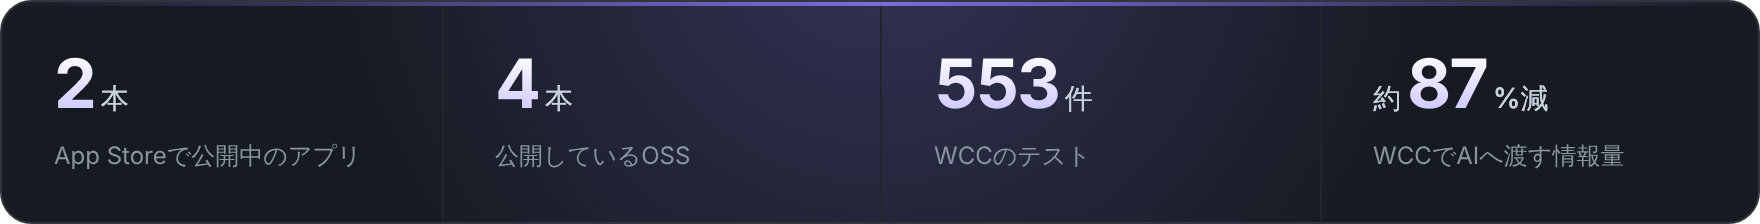
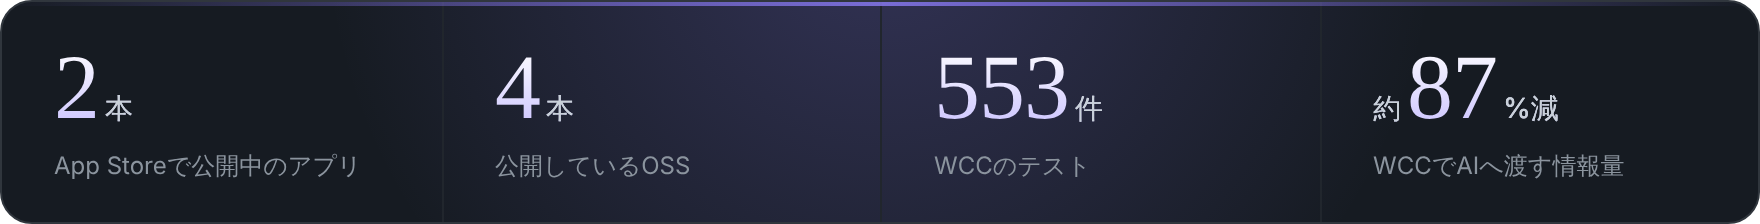
Editorial redesign: numbered section headers, principles and timeline panels, daily activity grid
- Section headers with a numbered italic serif title and thin rule, in light and dark
- Principles and timeline as designed panels instead of plain lists
- Activity grid drawn in the profile palette from the contribution calendar, rebuilt every morning
  (placeholder until the first run after merge; the workflow now also runs on push to main)
- Serif numbers on the stats strip

Claude-Session: https://claude.ai/code/session_01LtLMmqaeWnwXusiQJe4ZCB

diff --git a/tools/build_panels.js b/tools/build_panels.js
@@ -1,0 +1,114 @@
+// 段の見出し（assets/sections/*-<明暗>.png）と、「大事にしていること」「歩み」の板
+// （assets/panels/*-<明暗>.png）を作る。雑誌のように、番号・欧文の斜体・細い罫線で全体をそろえる。
+// 使い方: node tools/build_panels.js <書体フォルダ> assets
+const fs = require('fs');
+const path = require('path');
+const { chromium } = require('playwright');
+
+const FONT_DIR = path.resolve(process.argv[2] || 'fonts');
+const OUT = path.resolve(process.argv[3] || path.join(__dirname, '..', 'assets'));
+
+const THEMES = {
+  dark: { bg: '#161B22', border: '#30363D', fg: '#E6EDF3', body: '#C9D1D9', sub: '#8B949E', rule: '#30363D', accent: '#B4A7FF', dot: '#8B7CF6', soft: '#8B7CF61f' },
+  light: { bg: '#FFFFFF', border: '#E4E1F0', fg: '#1C1A2B', body: '#3B3852', sub: '#6E6A86', rule: '#E4E1F0', accent: '#6D5BD0', dot: '#6D5BD0', soft: '#6D5BD014' },
+};
+
+// 段の見出し。番号は読む順番。
+const SECTIONS = [
+  { id: 'numbers', no: '01', en: 'Numbers', ja: '数字で見る', meta: '2026.11' },
+  { id: 'apps', no: '02', en: 'Apps', ja: 'App Storeで公開中', meta: 'iOS · 2' },
+  { id: 'oss', no: '03', en: 'Open source', ja: '公開しているOSS', meta: 'GitHub · 4' },
+  { id: 'principles', no: '04', en: 'Principles', ja: '大事にしていること', meta: '' },
+  { id: 'timeline', no: '05', en: 'Timeline', ja: '歩み', meta: '2025 — 2026' },
+  { id: 'activity', no: '06', en: 'Activity', ja: '毎日の積み重ね', meta: 'daily' },
+  { id: 'stack', no: '07', en: 'Stack', ja: '使っている技術', meta: '' },
+];
+
+// 文言は README と同じ。提出済みESの範囲から出さない。
+const PRINCIPLES = [
+  { en: 'Ship it', ja: '作って、届ける。', body: '企画から公開まで運びきる。Stellise は2名のチームで約4か月かけて App Store に出しました。' },
+  { en: 'Measure the goal', ja: '動いたあとに、目的を測る。', body: 'テストが通っても終わりにしない。WCC では553件のテストが通ったあとに、AIへ渡す情報量が膨らんでいるのを見つけ、約87%減らしました。' },
+  { en: 'Guard by design', ja: 'AIに任せる範囲は、仕組みで守る。', body: '購入や送信は実行前に止める（WCC）。交渉の最後は人が承認する（AUN Protocol）。' },
+];
+
+const TIMELINE = [
+  { date: '2025.10', text: 'Tongali アイデアピッチコンテスト 準優秀賞' },
+  { date: '2026.05', text: 'G検定・Google AI Professional Certificate' },
+  { date: '2026.07', text: 'KASANE を npm で公開' },
+  { date: '2026.09', text: '技育博2026 に Stellise を出展・Voice Context を App Store で公開' },
+  { date: '2026.10', text: 'AUN Protocol を仕様として公開・WCC の比較計測（27回）を公開' },
+];
+
+function fontCss() {
+  return fs.readdirSync(FONT_DIR).filter((f) => f.endsWith('.css'))
+    .map((f) => fs.readFileSync(path.join(FONT_DIR, f), 'utf8')).join('\n');
+}
+
+const page = (t, body, css) => `<!doctype html><html lang="ja"><head><meta charset="utf-8"><style>${fontCss()}
+  * { box-sizing: border-box; margin: 0; padding: 0; } html, body { background: transparent; }
+  body { font-family: 'Inter', 'Noto Sans JP', sans-serif; color: ${t.fg}; -webkit-font-smoothing: antialiased; }
+  .serif { font-family: 'Instrument Serif', 'Noto Serif JP', serif; font-style: italic; font-weight: 400; }
+  .wrap { word-break: auto-phrase; text-wrap: pretty; }
+  ${css}</style></head><body>${body}</body></html>`;
+
+function sectionHtml(s, t) {
+  return page(t, `<div id="c" class="sec">
+    <span class="no serif">(${s.no})</span><span class="en serif">${s.en}</span><span class="ja">${s.ja}</span>
+    <span class="meta">${s.meta}</span>
+  </div>`, `
+  .sec { width: 880px; height: 62px; display: flex; align-items: baseline; gap: 12px; padding: 18px 4px 0; border-bottom: 1px solid ${t.rule}; position: relative; }
+  .sec::after { content: ''; position: absolute; left: 0; bottom: -1px; width: 120px; height: 1px; background: ${t.accent}; }
+  .no { font-size: 17px; color: ${t.accent}; }
+  .en { font-size: 32px; line-height: 1; color: ${t.fg}; letter-spacing: -.3px; }
+  .ja { font: 500 13px 'Inter', 'Noto Sans JP'; color: ${t.sub}; margin-left: 2px; }
+  .meta { margin-left: auto; font: 400 11px 'JetBrains Mono', monospace; color: ${t.sub}; letter-spacing: .6px; }
+  `);
+}
+
+function principlesHtml(t) {
+  return page(t, `<div id="c" class="box">${PRINCIPLES.map((p, i) => `
+    <div class="col"><div class="num serif">${['i.', 'ii.', 'iii.'][i]}</div><div class="en serif">${p.en}</div>
+    <h3>${p.ja}</h3><p class="wrap">${p.body}</p></div>`).join('')}</div>`, `
+  .box { width: 880px; display: grid; grid-template-columns: repeat(3, 1fr); background: ${t.bg}; border: 1px solid ${t.border}; border-radius: 18px; overflow: hidden; }
+  .col { padding: 24px 24px 26px; position: relative; }
+  .col + .col { border-left: 1px solid ${t.rule}; }
+  .num { font-size: 15px; color: ${t.accent}; }
+  .en { font-size: 26px; line-height: 1.1; margin-top: 2px; color: ${t.fg}; }
+  h3 { margin-top: 14px; font: 700 15px/1.5 'Inter', 'Noto Sans JP'; color: ${t.fg}; }
+  p { margin-top: 8px; font: 400 12.5px/1.75 'Inter', 'Noto Sans JP'; color: ${t.body}; }
+  `);
+}
+
+function timelineHtml(t) {
+  return page(t, `<div id="c" class="box"><div class="line"></div>${TIMELINE.map((e, i) => `
+    <div class="ev${i === TIMELINE.length - 1 ? ' now' : ''}"><div class="date">${e.date}</div><div class="dot"></div><p class="wrap">${e.text}</p></div>`).join('')}</div>`, `
+  .box { width: 880px; display: grid; grid-template-columns: repeat(${TIMELINE.length}, 1fr); background: ${t.bg}; border: 1px solid ${t.border}; border-radius: 18px; padding: 26px 18px 26px; position: relative; overflow: hidden; }
+  .line { position: absolute; left: 40px; right: 40px; top: 63px; height: 1px; background: linear-gradient(90deg, ${t.rule}, ${t.accent}, ${t.rule}); }
+  .ev { padding: 0 10px; position: relative; }
+  .date { font: 500 12px 'JetBrains Mono', monospace; color: ${t.sub}; letter-spacing: .5px; }
+  .dot { width: 11px; height: 11px; border-radius: 50%; background: ${t.bg}; border: 2px solid ${t.dot}; margin: 12px 0 14px; position: relative; z-index: 1; }
+  .now .dot { background: ${t.dot}; box-shadow: 0 0 0 5px ${t.soft}; }
+  .now .date { color: ${t.accent}; }
+  p { font: 500 12.5px/1.7 'Inter', 'Noto Sans JP'; color: ${t.body}; }
+  `);
+}
+
+async function shot(p, html, out) {
+  await p.setContent(html, { waitUntil: 'load' });
+  await p.evaluate(() => document.fonts.ready);
+  await (await p.$('#c')).screenshot({ path: out, omitBackground: true });
+  console.log('wrote', out);
+}
+
+(async () => {
+  fs.mkdirSync(path.join(OUT, 'sections'), { recursive: true });
+  fs.mkdirSync(path.join(OUT, 'panels'), { recursive: true });
+  const b = await chromium.launch();
+  const p = await b.newPage({ viewport: { width: 940, height: 600 }, deviceScaleFactor: 2 });
+  for (const [name, t] of Object.entries(THEMES)) {
+    for (const s of SECTIONS) await shot(p, sectionHtml(s, t), path.join(OUT, 'sections', `${s.id}-${name}.png`));
+    await shot(p, principlesHtml(t), path.join(OUT, 'panels', `principles-${name}.png`));
+    await shot(p, timelineHtml(t), path.join(OUT, 'panels', `timeline-${name}.png`));
+  }
+  await b.close();
+})();

diff --git a/tools/build_cards.js b/tools/build_cards.js
@@ -120,10 +120,10 @@ function statsHtml(t) {
   .strip::after { content: ''; position: absolute; inset: 0 0 auto 0; height: 1.5px; background: linear-gradient(90deg, transparent, #8B7CF6${t.line}, transparent); }
   .cell { display: flex; flex-direction: column; justify-content: center; padding: 0 26px; }
   .cell + .cell { border-left: 1px solid ${t.divider}; }
-  .num { font: 700 34px/1 'Inter'; letter-spacing: -1px; background: ${grad}; -webkit-background-clip: text; color: transparent; }
+  .num { font: 400 46px/1 'Instrument Serif', serif; letter-spacing: -.5px; background: ${grad}; -webkit-background-clip: text; color: transparent; padding-right: 2px; }
   .num small, .num .pre { font: 500 14px 'Inter', 'Noto Sans JP'; letter-spacing: 0; color: ${t.body}; -webkit-text-fill-color: ${t.body}; }
   .num small { margin-left: 3px; } .num .pre { margin-right: 3px; }
-  .label { margin-top: 10px; font: 400 12px 'Inter', 'Noto Sans JP'; color: ${t.sub}; }
+  .label { margin-top: 8px; font: 400 12px 'Inter', 'Noto Sans JP'; color: ${t.sub}; }
   </style></head><body><div class="strip" id="c">
   ${STATS.map((x) => `<div class="cell"><div class="num">${x.pre ? `<span class="pre">${x.pre}</span>` : ''}${x.num}<small>${x.unit}</small></div><div class="label">${x.label}</div></div>`).join('')}
   </div></body></html>`;

diff --git a/tools/build_activity.py b/tools/build_activity.py
@@ -1,0 +1,151 @@
+"""毎日の積み重ね assets/activity-dark.svg・assets/activity-light.svg を作る。
+
+GitHub の草（この1年の日ごとの活動数）を読み、プロフィールと同じ色で描く。
+GitHub Actions（.github/workflows/recent.yml）が毎朝動かす。取得に失敗したときは何も書き換えない。
+手元で試すときは --placeholder（集計前の空の表）か --sample（形を見るための作り物の数字）を付ける。
+--sample の画像はコミットしないこと。
+"""
+import datetime as dt
+import json
+import os
+import random
+import sys
+import urllib.request
+
+OWNER = "Maaa2005"
+ASSETS = next((a for a in sys.argv[1:] if not a.startswith("--")), "assets")
+W, H = 880, 256
+CELL, GAP = 12, 3
+X0, Y0 = 44, 110
+
+THEMES = {
+    "dark": dict(bg="#161B22", border="#30363D", fg="#E6EDF3", sub="#8B949E", accent="#B4A7FF",
+                 levels=["#252B35", "#2E2A55", "#4B3FA0", "#7B6CE0", "#C9C1FF"]),
+    "light": dict(bg="#FFFFFF", border="#E4E1F0", fg="#1C1A2B", sub="#6E6A86", accent="#6D5BD0",
+                  levels=["#EEEBF7", "#DCD6FB", "#B4A7FF", "#8B7CF6", "#5B48C2"]),
+}
+QUERY = """query($login: String!) { user(login: $login) { contributionsCollection {
+  contributionCalendar { totalContributions weeks { contributionDays { date contributionCount } } } } } }"""
+MONTHS = ["Jan", "Feb", "Mar", "Apr", "May", "Jun", "Jul", "Aug", "Sep", "Oct", "Nov", "Dec"]
+
+
+def fetch(token):
+    body = json.dumps({"query": QUERY, "variables": {"login": OWNER}}).encode()
+    req = urllib.request.Request("https://api.github.com/graphql", data=body, headers={
+        "Authorization": f"Bearer {token}", "Content-Type": "application/json", "User-Agent": "profile-activity"})
+    with urllib.request.urlopen(req, timeout=30) as res:
+        data = json.load(res)
+    cal = data["data"]["user"]["contributionsCollection"]["contributionCalendar"]
+    weeks = [[(d["date"], d["contributionCount"]) for d in w["contributionDays"]] for w in cal["weeks"]]
+    return weeks, cal["totalContributions"]
+
+
+def sample_weeks(seed=7):
+    """形を見るためだけの作り物。コミットしない。"""
+    rnd = random.Random(seed)
+    end = dt.date(2026, 11, 2)
+    start = end - dt.timedelta(days=end.weekday() + 1 + 52 * 7)
+    weeks, day = [], start
+    while day <= end:
+        week = []
+        for _ in range(7):
+            if day > end:
+                break
+            busy = 0.35 + 0.6 * (day - start).days / 371
+            week.append((day.isoformat(), rnd.choice([0, 0, 1, 2, 3, 5, 8, 13]) if rnd.random() < busy else 0))
+            day += dt.timedelta(days=1)
+        weeks.append(week)
+    return weeks, sum(c for w in weeks for _, c in w)
+
+
+def level(count, cuts):
+    if count <= 0:
+        return 0
+    for i, c in enumerate(cuts, start=1):
+        if count <= c:
+            return i
+    return 4
+
+
+def streak(weeks):
+    days = [c for w in weeks for _, c in w]
+    n = 0
+    for c in reversed(days):
+        if c > 0:
+            n += 1
+        elif n == 0:
+            continue  # 今日がまだ0なら昨日から数える
+        else:
+            break
+    return n
+
+
+def render(weeks, total, theme, placeholder=False):
+    t = THEMES[theme]
+    counts = sorted(c for w in weeks for _, c in w if c > 0)
+    cuts = [counts[int(len(counts) * q)] for q in (0.25, 0.5, 0.75)] if counts else [1, 2, 3]
+    cells, months, last_month, last = [], [], None, (X0, Y0)
+    for x, week in enumerate(weeks):
+        for date, count in week:
+            d = dt.date.fromisoformat(date)
+            y = (d.weekday() + 1) % 7  # 日曜が一番上
+            lv = 0 if placeholder else level(count, cuts)
+            cx, cy = X0 + x * (CELL + GAP), Y0 + y * (CELL + GAP)
+            cells.append(f'<rect x="{cx}" y="{cy}" width="{CELL}" height="{CELL}" rx="3" fill="{t["levels"][lv]}"/>')
+            last = (cx, cy)
+            if d.day <= 7 and y == 0 and d.month != last_month:
+                months.append(f'<text x="{cx}" y="{Y0 - 10}" class="m">{MONTHS[d.month - 1]}</text>')
+                last_month = d.month
+    s = streak(weeks)
+    if placeholder:
+        head = f'<text x="{X0}" y="54" class="big">—</text><text x="{X0}" y="74" class="lab">updating every morning</text>'
+    else:
+        head = (f'<text x="{X0}" y="54" class="big">{total:,}</text>'
+                f'<text x="{X0}" y="74" class="lab">contributions in the last year</text>')
+        if s >= 7:
+            head += (f'<text x="{W - X0}" y="54" class="big" text-anchor="end">{s}</text>'
+                     f'<text x="{W - X0}" y="74" class="lab" text-anchor="end">day streak</text>')
+    legend_x = W - X0 - 5 * (CELL + 3) - 34
+    legend = (f'<text x="{legend_x - 8}" y="{H - 22}" class="m" text-anchor="end">Less</text>'
+              + "".join(f'<rect x="{legend_x + i * (CELL + 3)}" y="{H - 32}" width="{CELL}" height="{CELL}" rx="3" fill="{c}"/>' for i, c in enumerate(t["levels"]))
+              + f'<text x="{legend_x + 5 * (CELL + 3) + 6}" y="{H - 22}" class="m">More</text>')
+    return f'''<svg xmlns="http://www.w3.org/2000/svg" viewBox="0 0 {W} {H}" width="{W}" height="{H}" role="img" aria-label="GitHub の活動（この1年、日ごと）">
+  <style>
+    .big {{ font: italic 400 34px 'Instrument Serif', 'Iowan Old Style', Georgia, serif; fill: {t["fg"]}; }}
+    .lab {{ font: 400 12px -apple-system, 'Segoe UI', Inter, sans-serif; fill: {t["sub"]}; }}
+    .m {{ font: 400 10px ui-monospace, SFMono-Regular, Menlo, Consolas, monospace; fill: {t["sub"]}; }}
+    .today {{ fill: none; stroke: {t["accent"]}; stroke-width: 1.5; animation: pulse 2.8s ease-in-out infinite; }}
+    @keyframes pulse {{ 0%,100% {{ opacity: .25; }} 50% {{ opacity: 1; }} }}
+    @media (prefers-reduced-motion: reduce) {{ .today {{ animation: none; opacity: .8; }} }}
+  </style>
+  <rect x=".5" y=".5" width="{W - 1}" height="{H - 1}" rx="18" fill="{t["bg"]}" stroke="{t["border"]}"/>
+  {head}
+  {''.join(months)}
+  {''.join(cells)}
+  <rect class="today" x="{last[0] - 2.5}" y="{last[1] - 2.5}" width="{CELL + 5}" height="{CELL + 5}" rx="4.5"/>
+  {legend}
+</svg>
+'''
+
+
+def main():
+    if "--placeholder" in sys.argv or "--sample" in sys.argv:
+        weeks, total = sample_weeks()
+        placeholder = "--placeholder" in sys.argv
+    else:
+        token = os.environ.get("GITHUB_TOKEN", "")
+        try:
+            weeks, total = fetch(token)
+        except Exception as e:  # 取れなければ前の画像のまま
+            print(f"activity: fetch failed, unchanged: {e}", file=sys.stderr)
+            return
+        placeholder = False
+    for theme in THEMES:
+        out = os.path.join(ASSETS, f"activity-{theme}.svg")
+        with open(out, "w", encoding="utf-8") as fh:
+            fh.write(render(weeks, total, theme, placeholder))
+        print("wrote", out)
+
+
+if __name__ == "__main__":
+    main()

diff --git a/README.md b/README.md
@@ -13,15 +13,17 @@
 
 名古屋の学生エンジニアです（2028年卒）。そのための部品として、身の回りの文脈を拾う **iOSアプリ** と、AIエージェントが安全に動くための **道具** を作っています。
 
+<picture><source media="(prefers-color-scheme: dark)" srcset="assets/sections/numbers-dark.png"><img alt="(01) 数字で見る" src="assets/sections/numbers-light.png" width="100%"></picture>
+
 <picture><source media="(prefers-color-scheme: dark)" srcset="assets/stats-dark.png"><img alt="App Storeで公開中のアプリ 2本 / 公開しているOSS 4本 / WCCのテスト 553件 / WCCでAIへ渡す情報量 約87%減" src="assets/stats-light.png" width="100%"></picture>
 
-### App Storeで公開中
+<picture><source media="(prefers-color-scheme: dark)" srcset="assets/sections/apps-dark.png"><img alt="(02) App Storeで公開中" src="assets/sections/apps-light.png" width="100%"></picture>
 
 <a href="https://apps.apple.com/jp/app/id6760934295"><picture><source media="(prefers-color-scheme: dark)" srcset="assets/showcase/stellise-dark.svg"><img alt="Stellise — 予定と天気から、AIが朝にやることを提案する目覚ましアプリ。2名のチームで約4か月。企画とSwiftUIのフロントエンドを担当。" src="assets/showcase/stellise-light.svg" width="100%"></picture></a>
 
 <a href="https://apps.apple.com/jp/app/voice-context/id6804673846"><picture><source media="(prefers-color-scheme: dark)" srcset="assets/showcase/voice-context-dark.svg"><img alt="Voice Context — 対面の会話を、AIエージェントが後から読める記録に変えるiOSアプリ。開発を担当、App Storeへの公開はチームメイト。" src="assets/showcase/voice-context-light.svg" width="100%"></picture></a>
 
-### 公開しているOSS
+<picture><source media="(prefers-color-scheme: dark)" srcset="assets/sections/oss-dark.png"><img alt="(03) 公開しているOSS" src="assets/sections/oss-light.png" width="100%"></picture>
 
 <p>
 <a href="https://github.com/Maaa2005/web-capability-compiler"><picture><source media="(prefers-color-scheme: dark)" srcset="assets/cards/wcc-dark.png"><img alt="Web Capability Compiler — 既存のWebサイトを、AIエージェントが安全に呼べる道具に変える。個人開発、テスト553件、AIへ渡す情報量を約87%削減。" src="assets/cards/wcc-light.png" width="49%"></picture></a>
@@ -32,21 +34,17 @@
 <a href="https://github.com/Maaa2005/local-rag-agent"><picture><source media="(prefers-color-scheme: dark)" srcset="assets/cards/local-rag-agent-dark.png"><img alt="local-rag-agent — 機密文書をネットに出さずに検索するRAGの試作。チーム開発、RAGの設計と構築を担当。" src="assets/cards/local-rag-agent-light.png" width="49%"></picture></a>
 </p>
 
-### 大事にしていること
+<picture><source media="(prefers-color-scheme: dark)" srcset="assets/sections/principles-dark.png"><img alt="(04) 大事にしていること" src="assets/sections/principles-light.png" width="100%"></picture>
 
-- **作って、届ける。** 企画から公開まで運びきる。Stellise は2名のチームで約4か月かけて App Store に出しました。
-- **動いたあとに、目的を測る。** テストが通っても終わりにしない。WCC では553件のテストが通ったあとに、AIへ渡す情報量が膨らんでいるのを計測で見つけ、約87%減らしました。
-- **AIに任せる範囲は、仕組みで守る。** 購入や送信は実行前に止める（WCC）。交渉の最後は人が承認する（AUN Protocol）。
+<picture><source media="(prefers-color-scheme: dark)" srcset="assets/panels/principles-dark.png"><img alt="作って、届ける。企画から公開まで運びきる。Stellise は2名のチームで約4か月かけて App Store に出しました。／動いたあとに、目的を測る。テストが通っても終わりにしない。WCC では553件のテストが通ったあとに、AIへ渡す情報量が膨らんでいるのを見つけ、約87%減らしました。／AIに任せる範囲は、仕組みで守る。購入や送信は実行前に止める（WCC）。交渉の最後は人が承認する（AUN Protocol）。" src="assets/panels/principles-light.png" width="100%"></picture>
 
-### 歩み
+<picture><source media="(prefers-color-scheme: dark)" srcset="assets/sections/timeline-dark.png"><img alt="(05) 歩み" src="assets/sections/timeline-light.png" width="100%"></picture>
 
-- <samp>2026.10</samp>　AUN Protocol を仕様として公開 ・ WCC の比較計測（27回）を公開
-- <samp>2026.09</samp>　技育博2026 に Stellise を出展 ・ Voice Context を App Store で公開
-- <samp>2026.07</samp>　KASANE を npm で公開
-- <samp>2026.05</samp>　G検定 ・ Google AI Professional Certificate
-- <samp>2025.10</samp>　Tongali アイデアピッチコンテスト 準優秀賞
+<picture><source media="(prefers-color-scheme: dark)" srcset="assets/panels/timeline-dark.png"><img alt="2025.10 Tongali アイデアピッチコンテスト 準優秀賞／2026.05 G検定・Google AI Professional Certificate／2026.07 KASANE を npm で公開／2026.09 技育博2026 に Stellise を出展・Voice Context を App Store で公開／2026.10 AUN Protocol を仕様として公開・WCC の比較計測（27回）を公開" src="assets/panels/timeline-light.png" width="100%"></picture>
 
-### 最近の更新
+<picture><source media="(prefers-color-scheme: dark)" srcset="assets/sections/activity-dark.png"><img alt="(06) 毎日の積み重ね" src="assets/sections/activity-light.png" width="100%"></picture>
+
+<picture><source media="(prefers-color-scheme: dark)" srcset="assets/activity-dark.svg"><img alt="GitHub の活動（この1年、日ごと）。毎朝自動で描き直しています。" src="assets/activity-light.svg" width="100%"></picture>
 
 <!-- recent:start -->
 - <samp>11/02</samp>　**[Stellise](https://github.com/Maaa2005/Stellise)** — docs(privacy): list the API server, Google Maps and OpenWea…
@@ -55,9 +53,9 @@
 - <samp>10/23</samp>　**[aun-protocol](https://github.com/Maaa2005/aun-protocol)** — Add agent card checks (aun-card/1)
 <!-- recent:end -->
 
-<sub>毎朝、公開しているリポジトリから自動で書き換えています。</sub>
+<sub>活動の表と最近の更新は、毎朝 GitHub Actions で自動で書き換えています。</sub>
 
-### 使っている技術
+<picture><source media="(prefers-color-scheme: dark)" srcset="assets/sections/stack-dark.png"><img alt="(07) 使っている技術" src="assets/sections/stack-light.png" width="100%"></picture>
 
 <picture><source media="(prefers-color-scheme: dark)" srcset="assets/stack-dark.png"><img alt="Languages: Swift, Python, TypeScript, JavaScript, C. iOS: SwiftUI, App Intents, WidgetKit, StoreKit 2, Core Motion, EventKit, Xcode. AI and agents: MCP, Claude API, Claude Code, Gemini API, Qdrant, vLLM, local LLMs, RAG, TensorFlow Lite, NumPy, pandas. Web and backend: FastAPI, Flask, Pydantic, SQLAlchemy, React, Next.js, Node.js, Vite, Playwright, Vitest, Firebase, Google Cloud. Desktop and tools: Tauri, Docker, GitHub Actions, Git, Figma." src="assets/stack-light.png" width="100%"></picture>
 

diff --git a/tools/README.md b/tools/README.md
@@ -7,7 +7,9 @@
 | `assets/hero-*.svg` | `build_hero.py` | 名前と一言、浮かぶ画面3枚。真ん中の Stellise は夜の画面から朝の画面へ切り替わる |
 | `assets/showcase/*-*.svg` | `build_showcase.js` → `build_strips.py` | アプリの紹介帯。下地を描いてから、画面を重ねて動きを付ける |
 | `assets/cards/*-*.png`・`assets/stats-*.png` | `build_cards.js` | OSSのカードと数字の帯。文言はファイル先頭の `CARDS`・`STATS` |
+| `assets/sections/*-*.png`・`assets/panels/*-*.png` | `build_panels.js` | 段の見出し（番号・欧文の斜体・細い罫線）と「大事にしていること」「歩み」の板 |
 | `assets/stack-*.png` | `build_stack.js` | 使っている技術。ロゴは simple-icons |
+| `assets/activity-*.svg` | `build_activity.py` | この1年の活動の表。`.github/workflows/recent.yml` が毎朝描き直す。手元では `--placeholder`（集計前の空の表）か `--sample`（形を見る作り物。コミットしない） |
 | README の「最近の更新」 | `update_recent.py` | `.github/workflows/recent.yml` が毎朝動かす |
 
 - 画面写真は `tools/shots/`（Stellise と Voice Context の公開リポジトリにある画面写真を縮めた物）。
@@ -16,16 +18,16 @@
 
 ## 用意する物
 
-書体と simple-icons を npm から取ります。
+書体（Noto Sans JP・Inter・JetBrains Mono・Instrument Serif）と simple-icons を npm から取ります。
 
 ```sh
 mkdir -p /tmp/f && cd /tmp/f
-npm pack @fontsource/noto-sans-jp @fontsource/inter @fontsource/jetbrains-mono
+npm pack @fontsource/noto-sans-jp @fontsource/inter @fontsource/jetbrains-mono @fontsource/instrument-serif
 for t in *.tgz; do mkdir -p "${t%.tgz}" && tar -xzf "$t" -C "${t%.tgz}"; done
 mkdir -p fonts && cp */package/files/*.woff2 fonts/
-for d in fontsource-noto-sans-jp-*:noto-jp fontsource-inter-*:inter fontsource-jetbrains-mono-*:mono; do
+for d in fontsource-noto-sans-jp-*:noto-jp fontsource-inter-*:inter fontsource-jetbrains-mono-*:mono fontsource-instrument-serif-*:serif; do
   src=${d%%:*}; name=${d##*:}
-  for c in $src/package/[0-9]*.css; do sed 's#url(./files/#url(./#g' "$c" > "fonts/$name-$(basename "$c")"; done
+  for c in $src/package/[0-9]*.css; do  # 400.css・400-italic.css など sed 's#url(./files/#url(./#g' "$c" > "fonts/$name-$(basename "$c")"; done
 done
 mkdir -p /tmp/icons && cd /tmp/icons && npm init -y >/dev/null && npm install simple-icons@13.21.0
 python3 -m venv /tmp/venv && /tmp/venv/bin/pip install fonttools brotli pillow
